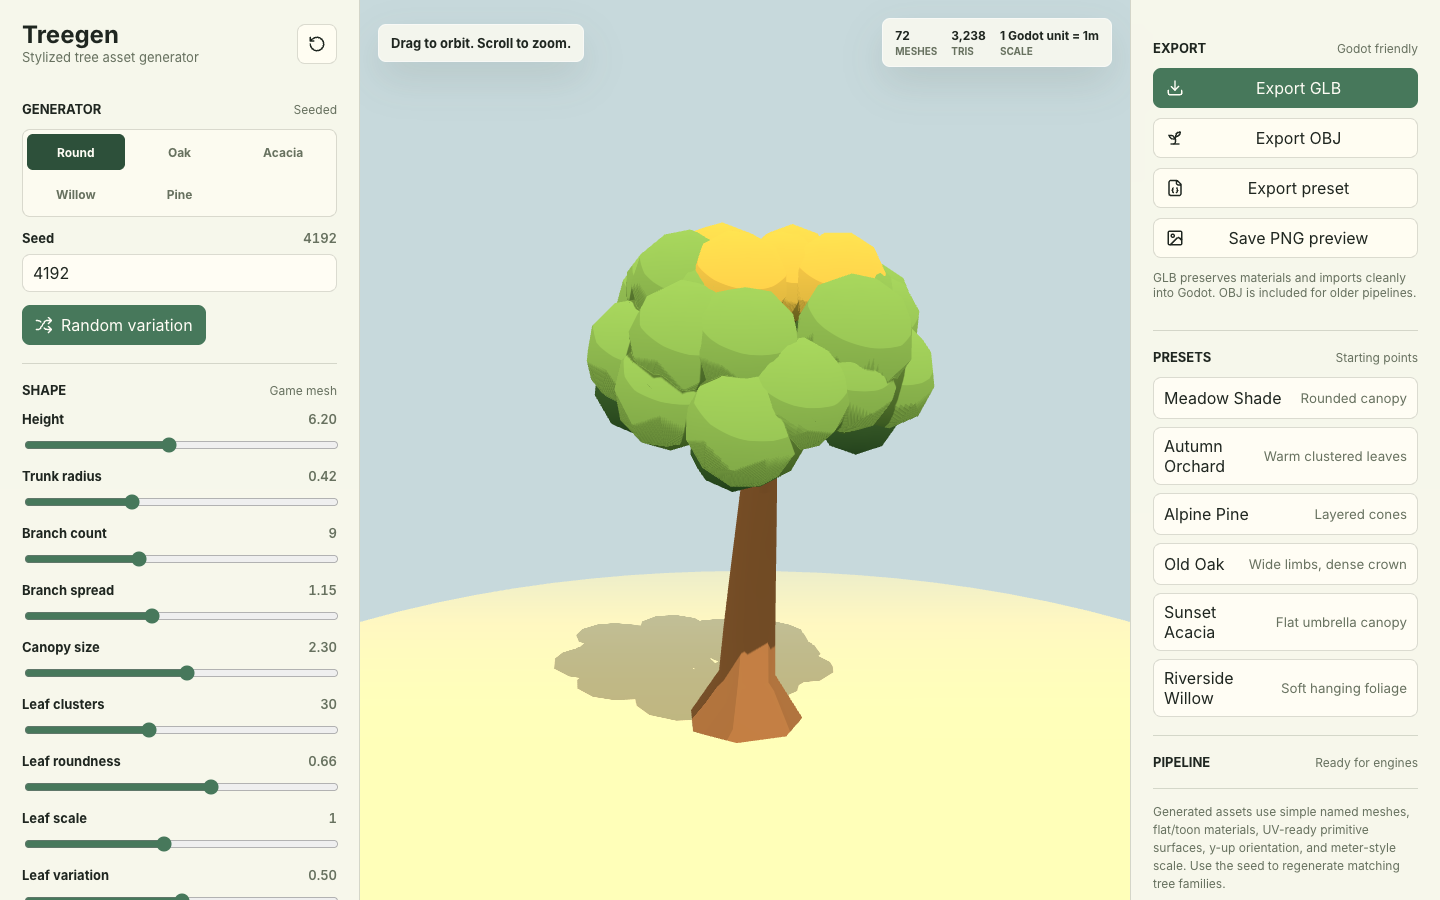
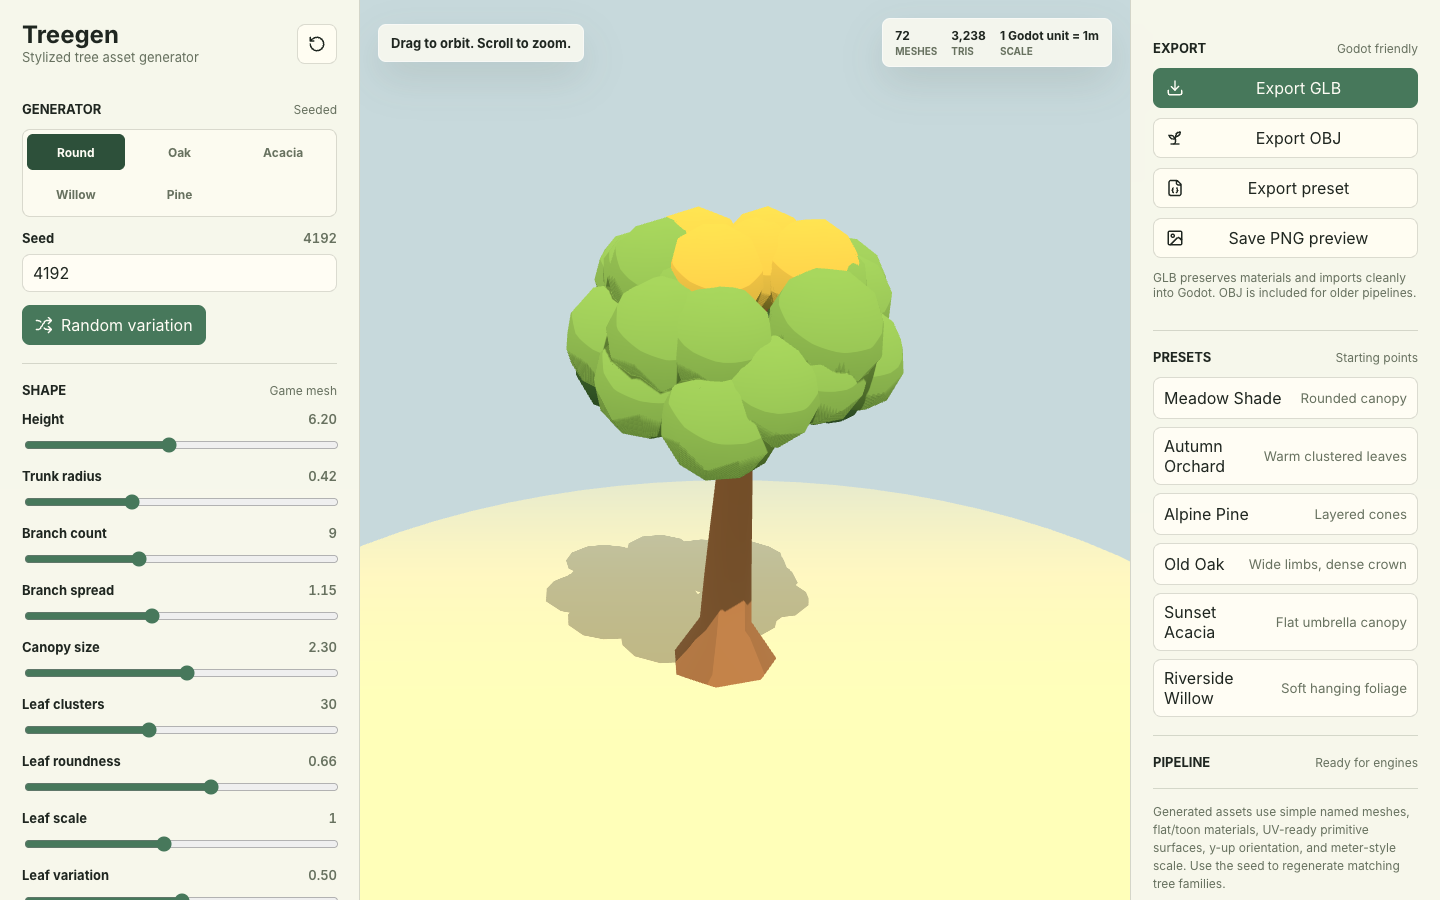
feat: species shapes from photographic reference
Checked each species against photos of the real thing (Quercus robur,
Vachellia tortilis, Salix babylonica, Picea abies) and fixed what did not
match:

- Trunks can now fork. profile.split divides the trunk into leaders that fan
  out in a V before the crown starts. This is what makes an acacia an acacia
  and it was the biggest single gap; oaks get a milder two-limb version.
- Acacia widened to ~1.5x as wide as tall, matching photographed umbrella
  crowns; it was 0.7x.
- Willow rebuilt as a dome with long thin strands drawn from the outer crown
  only, hung so they cover the limb they fall from. It was a ball of blobs.
- Conifer narrowed to ~0.5 spread, closer to a real spruce.

Crown spread is reported in stats.json so these claims stay checkable.
Also frames the viewport camera to the tree: species proportions now vary too
much for one fixed camera, and a wide acacia was cropped.

Changed region(s): [[0.25, 0.2178, 0.8125, 0.84]]

diff --git a/mcp/skeleton.js b/mcp/skeleton.js
@@ -31,6 +31,11 @@ export const SUN = new THREE.Vector3(5, 9, 4).normalize();
  *  lobe        crown surface perturbation, breaks up a too-perfect hull
  *  flatBottom  clamps the underside of the crown flat
  *  leafAspect  vertical stretch applied to this species' leaf masses
+ *  split       { at, count, rise, spread } — the trunk divides into this many
+ *              leaders at height fraction `at` and they fan outward before the
+ *              crown starts. This is the whole character of an acacia: photos
+ *              of Vachellia tortilis show two to four limbs leaving the trunk
+ *              low in a V, not branches hung off a single pole.
  */
 // Radii are deliberately small multiples of canopySize: the crown has to clear
 // the trunk. A crown whose underside reaches below about 45% of total height
@@ -41,21 +46,28 @@ export const SPECIES_PROFILES = {
     rise: 0.55, droop: 0.18, curtain: 0, lobe: 0.08, flatBottom: 0.15, leafAspect: 1,
   },
   oak: {
-    // Wide, heavy, flat-crowned, with pronounced lobes.
-    crownY: 0.76, rx: 0.84, ry: 0.36, exponent: 3.1, crownStart: 0.44,
-    rise: 0.34, droop: 0.3, curtain: 0, lobe: 0.16, flatBottom: 0.3, leafAspect: 0.85,
+    // Broad dense dome, wider than tall, over a short heavy trunk that forks
+    // into a couple of massive low limbs.
+    crownY: 0.74, rx: 0.86, ry: 0.44, exponent: 2.8, crownStart: 0.5,
+    rise: 0.34, droop: 0.3, curtain: 0, lobe: 0.16, flatBottom: 0.26, leafAspect: 0.9,
+    split: { at: 0.34, count: 2, rise: 0.5, spread: 0.3 },
   },
   acacia: {
-    // The umbrella: branches rise steeply then flatten, crown is a thin disc
-    // with a flat underside.
-    crownY: 0.87, rx: 0.98, ry: 0.19, exponent: 4.5, crownStart: 0.56,
-    rise: 1.0, droop: -0.1, curtain: 0, lobe: 0.07, flatBottom: 0.62, leafAspect: 0.7,
+    // The umbrella: leaders fan out low, then the crown is a thin horizontal
+    // disc with a flat underside, wider than the tree is tall.
+    crownY: 0.88, rx: 1.34, ry: 0.17, exponent: 5, crownStart: 0.62,
+    rise: 1.0, droop: -0.1, curtain: 0, lobe: 0.07, flatBottom: 0.66, leafAspect: 0.62,
+    split: { at: 0.24, count: 3, rise: 0.66, spread: 0.42 },
   },
   willow: {
-    // Tall dome over a hanging curtain. The curtain is what makes a willow,
-    // but it has to fall from a crown that is already clear of the ground.
-    crownY: 0.86, rx: 0.7, ry: 0.4, exponent: 2.1, crownStart: 0.52,
-    rise: 0.5, droop: 0.6, curtain: 0.62, lobe: 0.06, flatBottom: 0, leafAspect: 1.7,
+    // A broad dome that hangs in long vertical strands. leafAspect does the
+    // work: each leaf mass is stretched into a falling withe rather than a
+    // ball, which is what the silhouette actually reads as.
+    crownY: 0.84, rx: 0.78, ry: 0.34, exponent: 2.1, crownStart: 0.5,
+    rise: 0.45, droop: 0.7, curtain: 0.6, lobe: 0.06, flatBottom: 0, leafAspect: 2.4,
+    // Strands are thin as well as long, and only the outer crown draws out
+    // into them — photographed willows keep a rounded dome on top.
+    leafWidth: 0.44,
   },
   pine: {
     crownY: 0.6, rx: 0.9, ry: 1.2, exponent: 2, crownStart: 0.26,
@@ -218,7 +230,8 @@ export function buildSkeleton(params) {
   const rx = canopy * profile.rx * lerp(0.75, 1.15, clamp(spread / 2.2, 0, 1)) * vary(0.26);
   const ry = canopy * profile.ry * vary(0.26);
   const crownCentre = spineAt(spine, clamp(profile.crownY + (rand() - 0.5) * 0.07, 0.3, 0.95)).p.clone();
-  if (s.species !== 'pine') spine = trimSpine(spine, crownCentre.y + ry * 0.85);
+  if (profile.split) spine = trimSpine(spine, Number(s.height) * profile.split.at);
+  else if (s.species !== 'pine') spine = trimSpine(spine, crownCentre.y + ry * 0.85);
 
   const branches = [];
   const anchors = [];
@@ -244,9 +257,54 @@ export function buildSkeleton(params) {
   };
 }
 
+/**
+ * Divide the trunk into fanning leaders. Returns the leaders, each with the
+ * poly-line the crown branches will hang off, or an empty list for species
+ * that keep a single trunk.
+ */
+function buildLeaders(ctx) {
+  const { s, rand, spine, profile, branches, crownCentre, rx } = ctx;
+  const split = profile.split;
+  if (!split) return [];
+
+  // The trunk has already been cut off at the fork, so its last sample is the
+  // point every leader grows from.
+  const foot = spine[spine.length - 1];
+  const leaders = [];
+  const phase = rand() * Math.PI * 2;
+
+  for (let i = 0; i < split.count; i += 1) {
+    // Leaders are spaced evenly around the trunk, not golden-angled: a fork is
+    // a small number of limbs balancing each other, not a spiral.
+    const a = phase + (i / split.count) * Math.PI * 2 + (rand() - 0.5) * 0.5;
+    const dir = new THREE.Vector3(Math.cos(a), 0, Math.sin(a));
+    const reach = rx * split.spread * (0.8 + rand() * 0.4);
+    const end = foot.p
+      .clone()
+      .addScaledVector(dir, reach)
+      .setY(lerp(foot.p.y, crownCentre.y, split.rise * (0.85 + rand() * 0.3)));
+
+    // Bowed outward and up, so the fork reads as a V rather than a splay.
+    const points = curveBranch(foot.p.clone(), end, 0.12, -0.06, 4);
+    const id = branches.length;
+    branches.push({
+      points,
+      radius: foot.r * 0.72,
+      endRadius: foot.r * 0.44,
+      depth: 0,
+      parent: -1,
+      terminal: false,
+      leader: true,
+    });
+    leaders.push({ id, points, dir, radius: foot.r * 0.44 });
+  }
+  return leaders;
+}
+
 function buildBroadleaf(ctx) {
   const { s, rand, spine, profile, branches, anchors, crownCentre, rx, ry, maxDepth, leafCount } = ctx;
   const primaries = clamp(Math.round(Number(s.branchCount)), 1, 24);
+  const leaders = buildLeaders(ctx);
 
   // Spread the leaf budget over the primaries so the tree ends up with exactly
   // leafDensity foliage masses however the hierarchy splits.
@@ -266,14 +324,29 @@ function buildBroadleaf(ctx) {
 
   targets.forEach((target, i) => {
     if (quotas[i] === 0) return;
-    // Primaries leave the trunk between crownStart and just below the top,
-    // ordered so the outermost targets attach lowest — the way real limbs do.
-    const t = clamp(
-      lerp(profile.crownStart, 0.92, (i + 0.5) / primaries) + (rand() - 0.5) * 0.1,
-      profile.crownStart * 0.9,
-      0.96
-    );
-    const at = spineAt(spine, t);
+
+    let at;
+    let parent = -1;
+    if (leaders.length) {
+      // Hang this branch off whichever leader is heading its way, part way
+      // along so the limbs stay visible under the crown.
+      const dir = new THREE.Vector3(target.x - crownCentre.x, 0, target.z - crownCentre.z).normalize();
+      const leader = leaders.reduce((best, l) => (l.dir.dot(dir) > best.dir.dot(dir) ? l : best), leaders[0]);
+      const along = lerp(0.45, 1, (i + 0.5) / primaries);
+      const idx = clamp(Math.round(along * (leader.points.length - 1)), 1, leader.points.length - 1);
+      at = { p: leader.points[idx], r: leader.radius };
+      parent = leader.id;
+    } else {
+      // Primaries leave the trunk between crownStart and just below the top,
+      // ordered so the outermost targets attach lowest — the way real limbs do.
+      const t = clamp(
+        lerp(profile.crownStart, 0.92, (i + 0.5) / primaries) + (rand() - 0.5) * 0.1,
+        profile.crownStart * 0.9,
+        0.96
+      );
+      at = spineAt(spine, t);
+    }
+
     const outward = new THREE.Vector3(target.x - at.p.x, 0, target.z - at.p.z).normalize();
     const start = at.p.clone().addScaledVector(outward, at.r * 0.6);
 
@@ -284,8 +357,8 @@ function buildBroadleaf(ctx) {
       quota: quotas[i],
       depth: 0,
       maxDepth,
-      radius: at.r * 0.52,
-      parent: -1,
+      radius: at.r * (leaders.length ? 0.7 : 0.52),
+      parent,
     });
   });
 }
@@ -303,14 +376,18 @@ function grow(ctx) {
   // branch is curved, makes the whole limb arc down into the hanging mass —
   // dropping the tip afterwards would leave the branch above it bare.
   let aim = target;
+  let strandAmount = 0;
   if (terminal && profile.curtain) {
     const out = Math.hypot(target.x - ctx.crownCentre.x, target.z - ctx.crownCentre.z);
     const outward = clamp(out / (ctx.rx || 1), 0, 1);
+    strandAmount = outward;
     aim = target.clone();
     aim.y -= outward ** 1.2 * profile.curtain * s.height * 0.3 * (0.6 + rand() * 0.6);
     // Never let the curtain reach the ground: a willow that swallows its own
-    // trunk stops reading as a tree at all.
-    aim.y = Math.max(aim.y, s.height * 0.36);
+    // trunk stops reading as a tree at all. The floor allows for the strand
+    // hanging below the tip, not just the tip itself.
+    const strand = baseLeafRadius(ctx) * (0.6 + Number(s.leafShape) * 0.7) * profile.leafAspect;
+    aim.y = Math.max(aim.y, s.height * 0.3 + strand);
   }
 
   // Intermediate branches cover part of the distance; terminals finish the job
@@ -349,7 +426,7 @@ function grow(ctx) {
         at.y += (rand() - 0.5) * spill * 0.8;
         at.z += (rand() - 0.5) * spill;
       }
-      const anchor = makeAnchor(ctx, at, rand);
+      const anchor = makeAnchor({ ...ctx, strandAmount }, at, rand);
       anchors.push(anchor);
       // Lets the mesher drop branches that are entirely swallowed by their own
       // leaf mass — invisible geometry that still costs triangles.
@@ -404,17 +481,22 @@ function splitQuota(quota, kids, rand) {
  * the sun it is. `exposure` is what lets the palette read as lighting instead
  * of being sprayed on by index.
  */
-function makeAnchor(ctx, point, rand) {
-  const { s, profile, crownCentre, rx, ry } = ctx;
+/**
+ * Size leaf masses so neighbours overlap into a single crown surface. Mean
+ * spacing of N points on a hull of radius R goes as R/sqrt(N); the constant is
+ * tuned so adjacent masses merge without the crown becoming a smooth ball.
+ */
+function baseLeafRadius(ctx) {
+  const { s, rx, ry } = ctx;
   const count = Math.max(1, Number(s.leafDensity));
-  const variation = Number(s.leafVariation);
-
-  // Size masses so neighbours overlap into a single crown surface. Mean
-  // spacing on a hull of N points goes as R/sqrt(N); the constant is tuned so
-  // adjacent masses merge without the crown turning into a smooth ball.
   const meanR = (rx * 2 + ry) / 3;
-  const base = (2.55 * meanR) / Math.sqrt(count);
-  const radius = base * Number(s.leafSize) * (1 - variation * 0.3 + rand() * variation * 0.6);
+  return ((2.68 * meanR) / Math.sqrt(count)) * Number(s.leafSize);
+}
+
+function makeAnchor(ctx, point, rand) {
+  const { s, profile, crownCentre, ry } = ctx;
+  const variation = Number(s.leafVariation);
+  const radius = baseLeafRadius(ctx) * (1 - variation * 0.3 + rand() * variation * 0.6);
 
   const dir = new THREE.Vector3().subVectors(point, crownCentre).normalize();
   const height = clamp((point.y - (crownCentre.y - ry)) / (ry * 2 || 1), 0, 1);
@@ -423,10 +505,25 @@ function makeAnchor(ctx, point, rand) {
   // the accents read as light rather than as a second canopy colour.
   const exposure = clamp(0.5 + dir.dot(SUN) * 0.45 + (height - 0.5) * 0.35, 0, 1);
 
+  // On a curtain species the leaf mass is drawn out into a strand in
+  // proportion to how far the tip fell — inner masses stay rounded and form
+  // the dome, outer ones become long and narrow.
+  const drawn = profile.curtain ? clamp(ctx.strandAmount ?? 0, 0, 1) : 1;
+  const aspect = lerp(1, profile.leafAspect, drawn);
+
+  // A strand hangs from its branch rather than balancing on the tip. Lifting
+  // the centre lets the upper half swallow the descending limb, which would
+  // otherwise show through the curtain as a bare twig.
+  const seat = point.clone();
+  if (drawn > 0 && aspect > 1) {
+    seat.y += radius * (0.6 + Number(s.leafShape) * 0.7) * aspect * 0.35;
+  }
+
   return {
-    p: point.clone(),
+    p: seat,
     radius: Math.max(0.05, radius),
-    aspect: profile.leafAspect,
+    aspect,
+    width: lerp(1, profile.leafWidth ?? 1, drawn),
     exposure,
     spin: rand() * Math.PI * 2,
     tilt: (rand() - 0.5) * 0.5,
@@ -444,7 +541,9 @@ function buildConifer(ctx) {
   const whorls = clamp(Math.round(Number(s.leafDensity) / 4), 4, 14);
   const perWhorl = clamp(Math.round(Number(s.branchCount) / 3), 2, 6);
   const base = profile.crownStart;
-  const canopy = Number(s.canopySize) * Number(s.branchSpread) * 0.85;
+  // Narrower than a stylised "Christmas tree": photographed Picea abies runs
+  // roughly a third as wide as it is tall.
+  const canopy = Number(s.canopySize) * Number(s.branchSpread) * 0.72;
 
   for (let i = 0; i < whorls; i += 1) {
     const t = i / Math.max(1, whorls - 1);

diff --git a/mcp/generator.js b/mcp/generator.js
@@ -39,7 +39,7 @@ export const presets = {
   pine: { species: 'pine', seed: 7714, height: 7.8, trunkRadius: 0.32, branchCount: 12, branchSpread: 1.0, canopySize: 2.0, leafDensity: 34, leafShape: 0.8, leafStyle: 'needles', leafSize: 1, leafVariation: 0.5, detail: 1, lean: 0.06, leafPalette: 1, barkPalette: 4 },
   oak: { species: 'oak', seed: 3048, height: 6.4, trunkRadius: 0.58, branchCount: 11, branchSpread: 1.5, canopySize: 2.5, leafDensity: 38, leafShape: 0.42, leafStyle: 'angular', leafSize: 1.0, leafVariation: 0.6, detail: 1, lean: 0.1, leafPalette: 5, barkPalette: 4 },
   acacia: { species: 'acacia', seed: 6291, height: 7.0, trunkRadius: 0.4, branchCount: 8, branchSpread: 1.7, canopySize: 2.6, leafDensity: 30, leafShape: 0.3, leafStyle: 'clustered', leafSize: 1.15, leafVariation: 0.45, detail: 1, lean: 0.2, leafPalette: 6, barkPalette: 2 },
-  willow: { species: 'willow', seed: 8174, height: 6.6, trunkRadius: 0.4, branchCount: 10, branchSpread: 1.35, canopySize: 2.2, leafDensity: 34, leafShape: 0.75, leafStyle: 'clustered', leafSize: 0.9, leafVariation: 0.6, detail: 1, lean: 0.12, leafPalette: 1, barkPalette: 5 },
+  willow: { species: 'willow', seed: 8174, height: 6.6, trunkRadius: 0.4, branchCount: 10, branchSpread: 1.4, canopySize: 2.3, leafDensity: 46, leafShape: 0.75, leafStyle: 'clustered', leafSize: 0.82, leafVariation: 0.6, detail: 1, lean: 0.12, leafPalette: 1, barkPalette: 5 },
 };
 
 export const defaultParams = { ...presets.meadow };
@@ -228,7 +228,9 @@ export function buildTree(params = {}) {
       const length = p[0].distanceTo(p[p.length - 1]);
       if (length < branch.leafRadius * 0.85) continue;
     }
-    const sides = Math.max(3, trunkSides - 2 - branch.depth * 2);
+    // Leaders are trunk, structurally and visually — they get the trunk's
+    // silhouette resolution rather than a twig's.
+    const sides = branch.leader ? trunkSides : Math.max(3, trunkSides - 2 - branch.depth * 2);
     const radii = branch.points.map((_, i) => {
       const u = i / (branch.points.length - 1);
       return Math.max(0.01, branch.radius + (branch.endRadius - branch.radius) * u);
@@ -257,7 +259,11 @@ export function buildTree(params = {}) {
   const toneFor = (exposure) =>
     exposure >= highlightCut ? leafMats.highlight : exposure <= shadowCut ? leafMats.shadow : leafMats.base;
 
-  const blob = leafGeometry(s.leafStyle, detail);
+  // A strand's shape comes from how far it is stretched, not from how finely
+  // it is subdivided, so curtain species buy their density back by dropping a
+  // subdivision level. Many fine strands read as a curtain; few fat ones read
+  // as a bunch of pods.
+  const blob = leafGeometry(s.leafStyle, skel.profile.curtain ? Math.max(0, detail - 1) : detail);
   const skirt = skel.anchors.some((a) => a.skirt)
     ? new THREE.ConeGeometry(1, 1, trunkSides + 2, 1)
     : null;
@@ -281,10 +287,11 @@ export function buildTree(params = {}) {
     mesh.name = `leaf_cluster_${i}`;
     mesh.position.copy(anchor.p);
     const flat = s.leafStyle === 'flat' ? 0.34 : 1;
+    const narrow = anchor.width ?? 1;
     mesh.scale.set(
-      anchor.radius * wide,
+      anchor.radius * wide * narrow,
       anchor.radius * tall * anchor.aspect * flat,
-      anchor.radius * wide * 0.94
+      anchor.radius * wide * 0.94 * narrow
     );
     mesh.rotation.set(anchor.tilt, anchor.spin, anchor.tilt * 0.6);
     root.add(mesh);

diff --git a/src/main.js b/src/main.js
@@ -300,6 +300,24 @@ function buildTree() {
   updateMetrics();
 }
 
+/**
+ * Fit the view to the current tree. Species differ enormously in proportion —
+ * a wide acacia and a narrow pine cannot share one fixed camera without one of
+ * them being cropped. Only called on load and on Reset view, so it never yanks
+ * the camera while sliders are being dragged.
+ */
+function frameTree() {
+  const sphere = new THREE.Box3().setFromObject(treeRoot).getBoundingSphere(new THREE.Sphere());
+  const distance = (sphere.radius / Math.sin((camera.fov * Math.PI) / 360)) * 1.15;
+  controls.target.copy(sphere.center);
+  camera.position.set(
+    sphere.center.x + distance * 0.52,
+    sphere.center.y + distance * 0.3,
+    sphere.center.z + distance * 0.8
+  );
+  controls.update();
+}
+
 function updateMetrics() {
   const { meshes, triangles } = meshStats(treeRoot);
   document.querySelector('#meshCount').textContent = meshes;
@@ -386,11 +404,7 @@ function bindControls() {
     });
     regenerate();
   });
-  document.querySelector('#resetView').addEventListener('click', () => {
-    camera.position.set(7.4, 5.4, 11.2);
-    controls.target.set(0, 3.6, 0);
-    controls.update();
-  });
+  document.querySelector('#resetView').addEventListener('click', frameTree);
   document.querySelectorAll('[data-preset]').forEach((button) => {
     button.addEventListener('click', () => {
       Object.assign(state, presets[button.dataset.preset]);
@@ -489,4 +503,5 @@ setIcons();
 initThree();
 bindControls();
 regenerate();
+frameTree();
 animate();

diff --git a/mcp/skeleton.test.js b/mcp/skeleton.test.js
@@ -73,10 +73,17 @@ test('trunk tapers upward and flares at the root', () => {
 });
 
 test('species silhouettes actually differ', () => {
+  // Measure the extent of the foliage itself, not just anchor centres — a
+  // willow's strands hang well below their anchor, and centres alone would
+  // report a shape the tree does not actually have.
   const spread = (species) => {
     const skel = make({ species });
     const box = new THREE.Box3();
-    for (const a of skel.anchors) box.expandByPoint(a.p);
+    for (const a of skel.anchors) {
+      const vertical = a.radius * (a.aspect ?? 1);
+      box.expandByPoint(new THREE.Vector3(a.p.x + a.radius, a.p.y + vertical, a.p.z + a.radius));
+      box.expandByPoint(new THREE.Vector3(a.p.x - a.radius, a.p.y - vertical, a.p.z - a.radius));
+    }
     const size = box.getSize(new THREE.Vector3());
     return Math.max(size.x, size.z) / (size.y || 1);
   };

diff --git a/README.md b/README.md
@@ -66,6 +66,21 @@ continuous swept tube with parallel-transport frames, and the three leaf tones
 are assigned by exposure rank so they read as light and shade rather than by
 index.
 
+Species rules in `SPECIES_PROFILES` are set from photographs of the real
+species rather than guessed. Two matter most:
+
+- **The trunk can fork.** `split` divides the trunk into leaders that fan out
+  in a V before the crown starts. This is the whole character of an acacia —
+  photos of *Vachellia tortilis* show two to four limbs leaving the trunk low,
+  not branches hung off a single pole — and oaks get a milder version.
+- **A crown can hang.** `curtain` draws the outer leaf masses down into long
+  thin strands while the inner crown stays a rounded dome, which is what a
+  weeping willow actually looks like.
+
+Measured crown spread (width ÷ height) tracks the references: acacia ~1.5,
+oak ~1.2, round ~0.75, conifer ~0.5. `inspect-out/stats.json` reports it, so
+that claim is checkable rather than asserted.
+
 Because the skeleton is pure math it is unit-tested directly — `npm test`.
 
 ## Inspecting output
